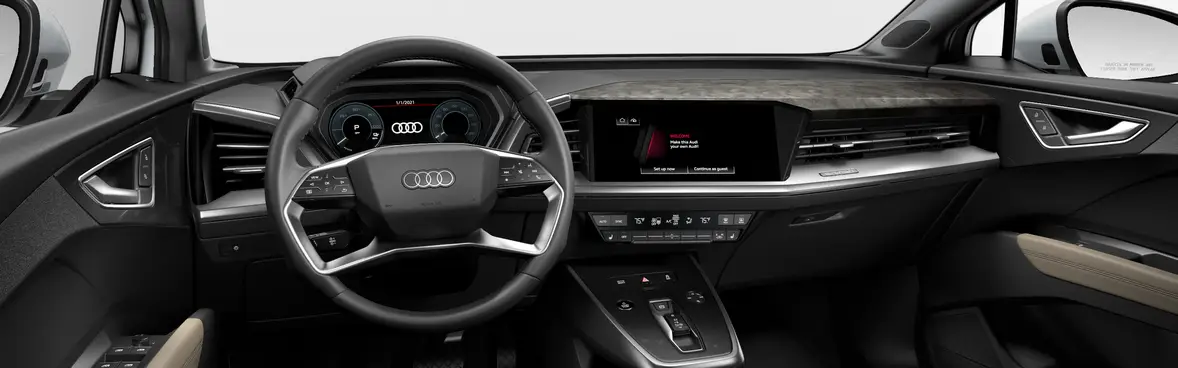
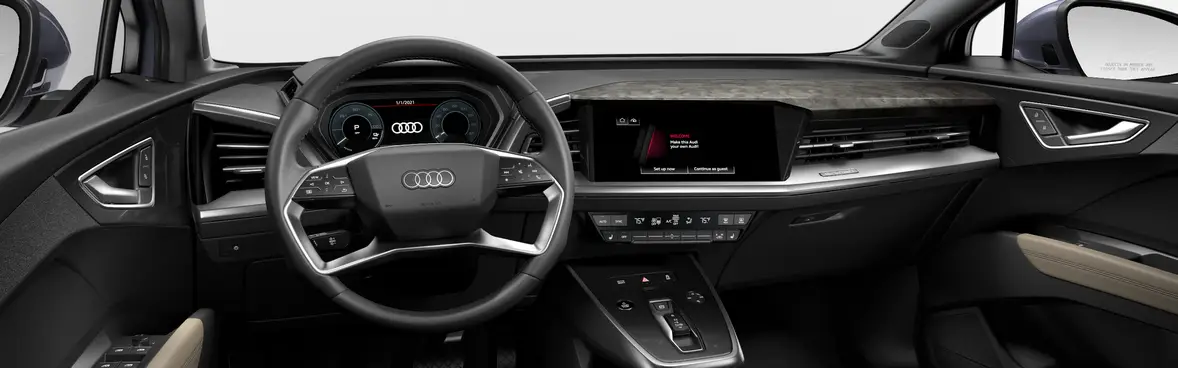
completed with mythos black metallic Parchment Beige with steel gray stitching

diff --git a/my-app/src/reducers/index.js b/my-app/src/reducers/index.js
@@ -106,6 +106,10 @@ const carData = () => {
                   require("../img/Interior/Navarra Blue metallic/Parchment Beige with steel gray stitching/Parchment Beige with steel gray stitching-1.png"),
                   require("../img/Interior/Navarra Blue metallic/Parchment Beige with steel gray stitching/Parchment Beige with steel gray stitching-2.png"),
                 ],
+                "Mythos Black metallic": [
+                  require("../img/Interior/Mythos Black metallic/Parchment Beige with steel gray stitching/Parchment Beige with steel gray stitching-1.png"),
+                  require("../img/Interior/Mythos Black metallic/Parchment Beige with steel gray stitching/Parchment Beige with steel gray stitching-2.png"),
+                ],
               },
               "Black with Rock Gray stitching": {
                 "Navarra Blue metallic": [
